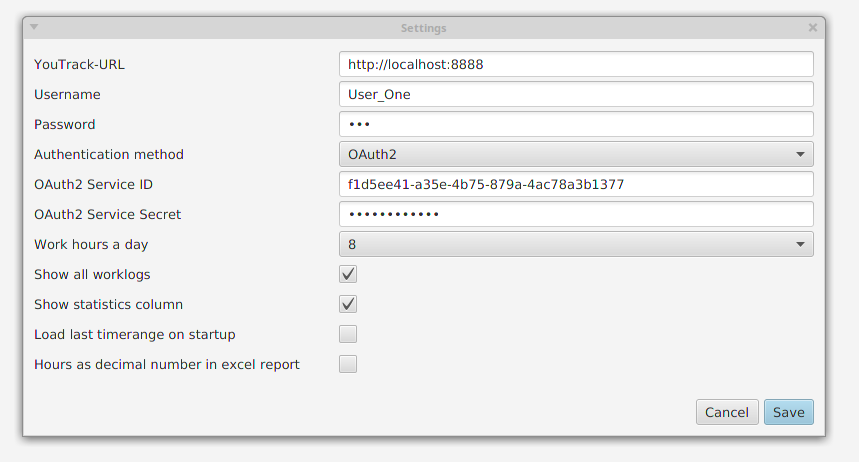
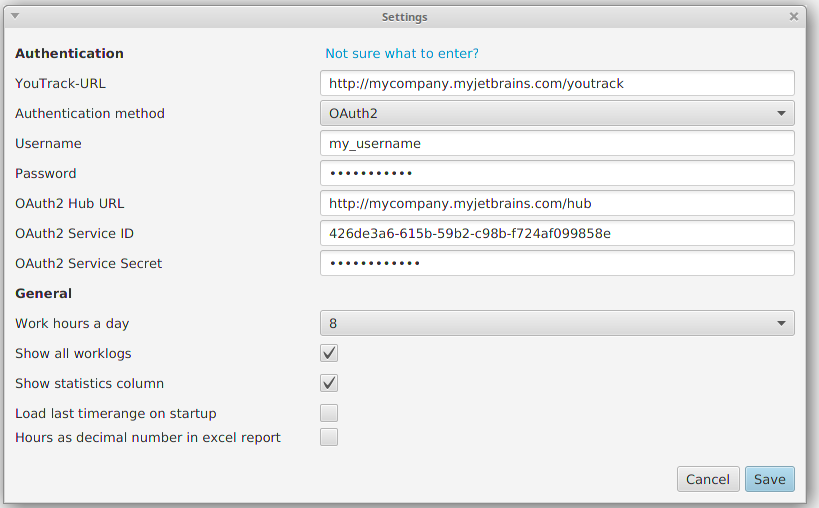
introducing configurable hub url

Changed region(s): [[0.0, 0.0, 1.0, 1.0], [0.3968, 0.8182, 0.4274, 0.8788]]

diff --git a/src/main/java/de/pbauerochse/worklogviewer/fx/SettingsViewController.java b/src/main/java/de/pbauerochse/worklogviewer/fx/SettingsViewController.java
@@ -1,16 +1,21 @@
 package de.pbauerochse.worklogviewer.fx;
 
+import de.pbauerochse.worklogviewer.WorklogViewer;
 import de.pbauerochse.worklogviewer.fx.converter.YouTrackAuthenticationMethodStringConverter;
+import de.pbauerochse.worklogviewer.util.ExceptionUtil;
 import de.pbauerochse.worklogviewer.util.SettingsUtil;
 import de.pbauerochse.worklogviewer.youtrack.connector.YouTrackAuthenticationMethod;
+import javafx.application.Platform;
 import javafx.fxml.FXML;
 import javafx.fxml.Initializable;
 import javafx.scene.control.*;
 import javafx.stage.Window;
 import javafx.stage.WindowEvent;
+import org.apache.commons.lang3.StringUtils;
 import org.slf4j.Logger;
 import org.slf4j.LoggerFactory;
 
+import java.net.MalformedURLException;
 import java.net.URL;
 import java.util.ResourceBundle;
 
@@ -21,6 +26,9 @@ import java.util.ResourceBundle;
 public class SettingsViewController implements Initializable {
 
     private static final Logger LOGGER = LoggerFactory.getLogger(SettingsViewController.class);
+
+    private static final String MYJETBRAINS_HOST = "myjetbrains.com";
+    private static final String MYJETBRAINS_HOSTED_YOUTRACK_PATH = "/youtrack";
 
     @FXML
     private TextField youtrackUrlField;
@@ -50,6 +58,9 @@ public class SettingsViewController implements Initializable {
     private ComboBox<YouTrackAuthenticationMethod> youtrackAuthenticationMethodField;
 
     @FXML
+    private TextField youtrackOAuthHubUrlField;
+
+    @FXML
     private TextField youtrackOAuthServiceIdField;
 
     @FXML
@@ -61,9 +72,14 @@ public class SettingsViewController implements Initializable {
     @FXML
     private Button cancelSettingsButton;
 
+    private ResourceBundle resourceBundle;
+
+
+
     @Override
     public void initialize(URL location, ResourceBundle resources) {
         LOGGER.debug("Initializing");
+        this.resourceBundle = resources;
         SettingsUtil.Settings settings = SettingsUtil.loadSettings();
 
         for (int i = 1; i <= 24; i++) {
@@ -71,17 +87,35 @@ public class SettingsViewController implements Initializable {
         }
         workhoursComboBox.getSelectionModel().select((Integer) settings.getWorkHoursADay());
 
+        youtrackUrlField.textProperty().addListener((observable, oldValue, newValue) -> {
+            try {
+                youtrackOAuthHubUrlField.setText(getHubUrl(newValue).toExternalForm());
+            } catch (MalformedURLException e) {}
+        });
+
         youtrackUrlField.textProperty().bindBidirectional(settings.youtrackUrlProperty());
         youtrackUsernameField.textProperty().bindBidirectional(settings.youtrackUsernameProperty());
         youtrackPasswordField.textProperty().bindBidirectional(settings.youtrackPasswordProperty());
 
+        youtrackOAuthHubUrlField.textProperty().bindBidirectional(settings.youtrackOAuthHubUrlProperty());
         youtrackOAuthServiceIdField.textProperty().bindBidirectional(settings.youtrackOAuthServiceIdProperty());
         youtrackOAuthServiceSecretField.textProperty().bindBidirectional(settings.youtrackOAuthServiceSecretProperty());
+
+        // disable oauth fields when api is selected
+        youtrackOAuthHubUrlField.disableProperty().bind(youtrackAuthenticationMethodField.getSelectionModel().selectedItemProperty().isEqualTo(YouTrackAuthenticationMethod.HTTP_API));
+        youtrackOAuthServiceIdField.disableProperty().bind(youtrackAuthenticationMethodField.getSelectionModel().selectedItemProperty().isEqualTo(YouTrackAuthenticationMethod.HTTP_API));
+        youtrackOAuthServiceSecretField.disableProperty().bind(youtrackAuthenticationMethodField.getSelectionModel().selectedItemProperty().isEqualTo(YouTrackAuthenticationMethod.HTTP_API));
 
         youtrackAuthenticationMethodField.getItems().addAll(YouTrackAuthenticationMethod.values());
         youtrackAuthenticationMethodField.setConverter(new YouTrackAuthenticationMethodStringConverter());
         youtrackAuthenticationMethodField.getSelectionModel().select(settings.youTrackAuthenticationMethodProperty().get());
         youtrackAuthenticationMethodField.getSelectionModel().selectedItemProperty().addListener((observable, oldValue, newValue) -> settings.youTrackAuthenticationMethodProperty().set(newValue));
+
+        if (youtrackAuthenticationMethodField.getSelectionModel().getSelectedItem() == YouTrackAuthenticationMethod.OAUTH2 && StringUtils.isBlank(youtrackOAuthHubUrlField.getText())) {
+            try {
+                youtrackOAuthHubUrlField.setText(getHubUrl(youtrackUrlField.getText()).toExternalForm());
+            } catch (MalformedURLException e) {}
+        }
 
         showAllWorklogsCheckBox.selectedProperty().bindBidirectional(settings.showAllWorklogsProperty());
         showStatisticsCheckBox.selectedProperty().bindBidirectional(settings.showStatisticsProperty());
@@ -98,9 +132,38 @@ public class SettingsViewController implements Initializable {
         });
     }
 
+    @FXML
+    public void showSettingsHelp() {
+        String helpUrl = resourceBundle.getString("view.settings.authentication.help_url");
+        LOGGER.debug("Opening page {} in browser", helpUrl);
+        Platform.runLater(() -> WorklogViewer.getInstance().getHostServices().showDocument(helpUrl));
+    }
+
     private void closeSettingsDialogue() {
         LOGGER.debug("Closing settings dialogue");
         Window window = saveSettingsButton.getScene().getWindow();
         window.fireEvent(new WindowEvent(window, WindowEvent.WINDOW_CLOSE_REQUEST));
+    }
+
+    private static URL getHubUrl(String baseUrl) throws MalformedURLException {
+        if (StringUtils.isBlank(baseUrl)) {
+            return new URL("");
+        }
+
+        StringBuilder sb = new StringBuilder(baseUrl);
+        while (sb.charAt(sb.length() - 1) == '/') {
+            sb.deleteCharAt(sb.length() - 1);
+        }
+
+        sb.append("/hub");
+
+        boolean seemsToBeJetbrainsHosted = StringUtils.containsIgnoreCase(baseUrl, MYJETBRAINS_HOST);
+        int indexOfYoutrackPath = sb.indexOf(MYJETBRAINS_HOSTED_YOUTRACK_PATH);
+
+        if (seemsToBeJetbrainsHosted && indexOfYoutrackPath >= 0) {
+            sb.replace(indexOfYoutrackPath, indexOfYoutrackPath + MYJETBRAINS_HOSTED_YOUTRACK_PATH.length(), "");
+        }
+
+        return new URL(sb.toString());
     }
 }

diff --git a/src/main/java/de/pbauerochse/worklogviewer/util/SettingsUtil.java b/src/main/java/de/pbauerochse/worklogviewer/util/SettingsUtil.java
@@ -37,6 +37,7 @@ public class SettingsUtil {
     private static final String YOUTRACK_URL_PROPERTY = "youtrackurl";
     private static final String YOUTRACK_OAUTH_SERVICE_ID_PROPERTY = "oauth_service_id";
     private static final String YOUTRACK_OAUTH_SERVICE_SECRET = "oauth_service_secret";
+    private static final String YOUTRACK_OAUTH_HUB_URL = "oauth_hub_url";
 
     private static final String SHOW_ALL_WORKLOGS_PROPERTY = "showonlyowntimelogs.enabled";
     private static final String SHOW_STATISTICS_PROPERTY = "statistics.enabled";
@@ -162,7 +163,7 @@ public class SettingsUtil {
         settings.youtrackUrlProperty().setValue(properties.getProperty(YOUTRACK_URL_PROPERTY));
         settings.youtrackUsernameProperty().setValue(properties.getProperty(YOUTRACK_USERNAME_PROPERTY));
         settings.youtrackOAuthServiceIdProperty().setValue(properties.getProperty(YOUTRACK_OAUTH_SERVICE_ID_PROPERTY));
-
+        settings.youtrackOAuthHubUrlProperty().setValue(properties.getProperty(YOUTRACK_OAUTH_HUB_URL));
         String encryptedUserPassword = properties.getProperty(YOUTRACK_PASSWORD_PROPERTY);
         if (StringUtils.isNotBlank(encryptedUserPassword)) {
             try {
@@ -231,6 +232,10 @@ public class SettingsUtil {
             properties.setProperty(YOUTRACK_URL_PROPERTY, settings.getYoutrackUrl());
         }
 
+        if (StringUtils.isNotBlank(settings.getYoutrackOAuthHubUrl())) {
+            properties.setProperty(YOUTRACK_OAUTH_HUB_URL, settings.getYoutrackOAuthHubUrl());
+        }
+
         if (StringUtils.isNotBlank(settings.getYoutrackUsername())) {
             properties.setProperty(YOUTRACK_USERNAME_PROPERTY, settings.getYoutrackUsername());
         }
@@ -279,6 +284,8 @@ public class SettingsUtil {
         private IntegerProperty workHoursADay = new SimpleIntegerProperty(8);
 
         private SimpleObjectProperty<YouTrackAuthenticationMethod> youTrackAuthenticationMethod = new SimpleObjectProperty<>(YouTrackAuthenticationMethod.HTTP_API);
+
+        private StringProperty youtrackOAuthHubUrl = new SimpleStringProperty();
 
         private StringProperty youtrackOAuthServiceId = new SimpleStringProperty();
 
@@ -437,6 +444,14 @@ public class SettingsUtil {
             return youtrackOAuthServiceSecret;
         }
 
+        public String getYoutrackOAuthHubUrl() {
+            return youtrackOAuthHubUrl.get();
+        }
+
+        public StringProperty youtrackOAuthHubUrlProperty() {
+            return youtrackOAuthHubUrl;
+        }
+
         public int getConnectionParametersHashCode() {
             int result = youtrackUrlProperty() != null ? youtrackUrlProperty().hashCode() : 0;
             result = 31 * result + (youtrackUsernameProperty() != null ? youtrackUsernameProperty().hashCode() : 0);
@@ -444,6 +459,7 @@ public class SettingsUtil {
             result = 31 * result + (youTrackAuthenticationMethodProperty() != null ? youTrackAuthenticationMethodProperty().hashCode() : 0);
             result = 31 * result + (youtrackOAuthServiceIdProperty() != null ? youtrackOAuthServiceIdProperty().hashCode() : 0);
             result = 31 * result + (youtrackOAuthServiceSecretProperty() != null ? youtrackOAuthServiceSecretProperty().hashCode() : 0);
+            result = 31 * result + (youtrackOAuthHubUrlProperty() != null ? youtrackOAuthHubUrlProperty().hashCode() : 0);
             return result;
         }
     }

diff --git a/src/main/java/de/pbauerochse/worklogviewer/youtrack/connector/OAuth2Connector.java b/src/main/java/de/pbauerochse/worklogviewer/youtrack/connector/OAuth2Connector.java
@@ -1,14 +1,13 @@
 package de.pbauerochse.worklogviewer.youtrack.connector;
 
 import com.intellij.hub.auth.oauth2.token.AccessToken;
+import de.pbauerochse.worklogviewer.WorklogViewer;
 import de.pbauerochse.worklogviewer.util.ExceptionUtil;
 import de.pbauerochse.worklogviewer.util.SettingsUtil;
 import jetbrains.jetpass.client.hub.HubClient;
 import jetbrains.jetpass.client.oauth2.OAuth2Client;
 import jetbrains.jetpass.client.oauth2.token.OAuth2ResourceOwnerFlow;
-import org.apache.commons.lang3.StringUtils;
 import org.apache.http.Header;
-import org.apache.http.NameValuePair;
 import org.apache.http.impl.client.CloseableHttpClient;
 import org.apache.http.impl.client.HttpClientBuilder;
 import org.apache.http.message.BasicHeader;
@@ -24,7 +23,7 @@ import java.util.List;
  */
 class OAuth2Connector extends YouTrackConnectorBase {
 
-    public static final String YOUTRACK_SCOPE = "YouTrack";
+    private static final String YOUTRACK_SCOPE = "YouTrack";
 
     private Integer connectionParameterHashCode;
 
@@ -41,7 +40,7 @@ class OAuth2Connector extends YouTrackConnectorBase {
             LOGGER.info("Fetching new access token");
 
             try {
-                URL hubUrl = getHubUrl(settings.getYoutrackUrl());
+                URL hubUrl = new URL(settings.getYoutrackOAuthHubUrl());
 
                 HubClient hubClient = HubClient.builder().baseUrl(hubUrl).build();
 
@@ -73,26 +72,14 @@ class OAuth2Connector extends YouTrackConnectorBase {
 
             } catch (MalformedURLException e) {
                 LOGGER.error("Malformed URL", e);
+                throw ExceptionUtil.getIllegalArgumentException("exceptions.main.oauth2.huburl", e);
             }
         }
 
         return client;
     }
 
-    private URL getHubUrl(String baseUrl) throws MalformedURLException {
-        if (StringUtils.isBlank(baseUrl)) {
-            throw ExceptionUtil.getIllegalArgumentException("exceptions.main.worker.youtrackurl");
-        }
 
-        StringBuilder sb = new StringBuilder(baseUrl);
-        while (sb.charAt(sb.length() - 1) == '/') {
-            sb.deleteCharAt(sb.length() - 1);
-        }
-
-        sb.append("/hub");
-
-        return new URL(sb.toString());
-    }
 
     @Override
     public YouTrackAuthenticationMethod getAuthenticationMethod() {

diff --git a/README.md b/README.md
@@ -10,7 +10,7 @@ With this tool you can now overcome this issue. It let's you create your persona
 
 ## Latest Version
 
-[Download v2.1.0](https://github.com/pbauerochse/youtrack-worklog-viewer/releases/tag/2.1.0)
+[Download v2.1.1](https://github.com/pbauerochse/youtrack-worklog-viewer/releases/tag/2.1.1)
 
 ## How does it work?
 You simply enter the URL to your YouTrack installation, and your own login data at the settings screen, select the reporting range in the main window and click on the "Download worklogs" button. That's it!
@@ -53,41 +53,8 @@ You simply enter the URL to your YouTrack installation, and your own login data 
 
 *Unfortunately this also is a YouTrack issue: The report itself already contains the broken characters so I have no chance to fix that. If you want to get this fixed vote on the issue at https://youtrack.jetbrains.com/issue/JT-29234*
 
-**Can I use OAuth2 authorization?**
+**Can I use OAuth2 authentication?**
 
-*Starting from version 2.1.0 you may now switch authentication from REST to OAuth2 in the settings dialogue. To get this working you will need to configure a service in the YouTrack Hub for the YouTrack Worklog Viewer and also provide the client id and client secret in the settings dialogue*
+*Starting from version 2.1.0 you may now switch authentication from REST to OAuth2 in the settings dialogue. To get this working you will need to configure a service in the YouTrack Hub for the YouTrack Worklog Viewer and also provide the client id and client secret in the settings dialogue. See [the Wiki page](https://github.com/pbauerochse/youtrack-worklog-viewer/wiki/Authentication-with-YouTrack) for a detailed explanation*
 
-## Setting up OAuth2
-To get OAuth2 authentication working you need to set up a Service in the YouTrack Hub for the YouTrack Worklog Viewer. This only needs to be done once by your YouTrack administrator. The following steps will guide you as an administrator through the process.
- 
-### Step 1 - Setup the Service
-Login to the YouTrack Hub. This web-interface can be accessed by pointing your browser to `<YourYouTrackBaseUrl>/hub` (e.g. if your YouTrack dashboard can be accessed with `https://issues.mycompany.com/dashboard` then your Hub URL is `https://issues.mycompany.com/hub`). In the top navigation click on "More settings" and then "Services"
 
-![Step 1 - Create Service in Hub](https://raw.githubusercontent.com/pbauerochse/youtrack-worklog-viewer/master/oauth_step1_service.png)
-
-Then click on "Create Service..." and put in a name for the service (e.g. YouTrack Worklog Viewer). You may leave the Home URL blank or put in the link to the github page. Click "Create Service"
-
-### Step 2 - Set the service to trustworthy
-Once you created the service, you need to set this service to trusted by clicking the "Trust" button. 
-
-![Step 2 - Trust and Client ID](https://raw.githubusercontent.com/pbauerochse/youtrack-worklog-viewer/master/oauth_step2_trust_and_client_id.png)
-
-The generated ID later needs to be copied to every YouTrack Worklog Viewer client that accesses the data from this YouTrack instance.
-
-### Step 3 - Set or generate the service secret
-Now you need to obtain the secret token. YouTrack can generate a token for you or you may set a fixed token. This token and the client id from step 2 need to be copied to your YouTrack Worklog Viewer settings.
- 
-![Step 3 - The service secret](https://raw.githubusercontent.com/pbauerochse/youtrack-worklog-viewer/master/oauth_step3_secret_token.png)
-
-Attention: The token presented to you in that popup window is **NOT** the currently set token. It is a newly generated random token that gets set once you click on "Change Secret". Make sure you copy the token *before* changing it or you will never ever see that token again and have to generate a new one.
-
-### Step 4 - Set the client Id and secret token in YouTrack Worklog Viewer
-Now that you have obtained the client id and the secret token, you need to paste that information into your YouTrack Worklog Viewer settings dialogue
-
-![Step 4 - YouTrack Worklog Viewer settings](https://raw.githubusercontent.com/pbauerochse/youtrack-worklog-viewer/master/oauth_step4_ywlv_settings.png)
-
-Set the authentication method to OAuth2 and click on "Save". Now you should be good to go with OAuth2. The OAuth2 secret token will be encrypted in the same way the user password gets encrypted, before saving it to the `youtrack-worklog.properties` file.
-
-### Optional Step 5 - Service for every single user
-To add even more security you could consider repeating all steps for every single user that uses the YouTrack Worklog Viewer, so they won't share a single service id and service secret.
-This is an optional step and is not required. The OAuth2 authentication works perfectly fine with a shared service id and secret.
